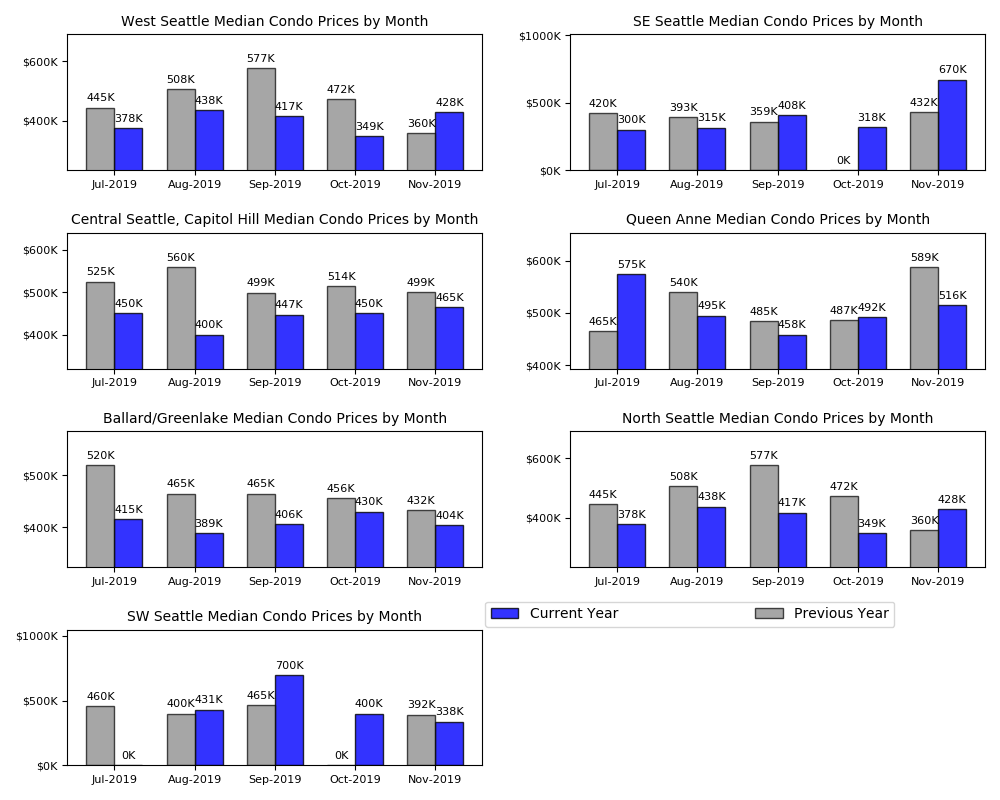
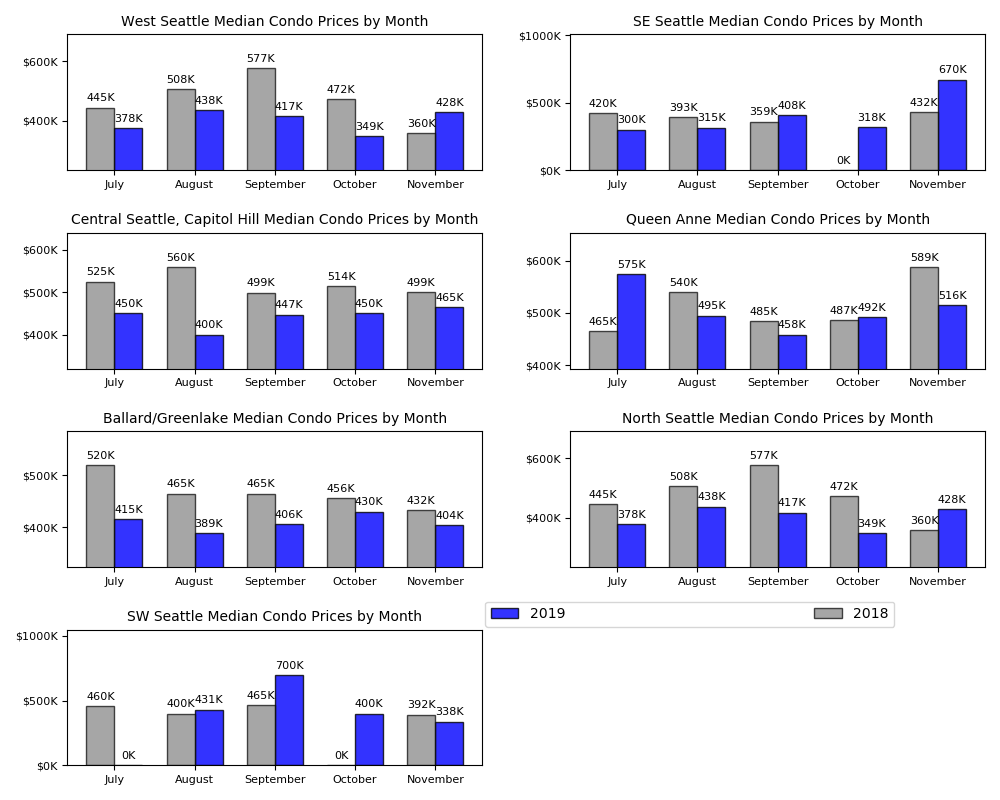
formatting of graphs

diff --git a/viz/stackedGraph.py b/viz/stackedGraph.py
@@ -66,7 +66,7 @@ table_list = [['res', 'Residential', 'SFH'], ['res_condo', 'Mixed', 'SFH/Condo']
 for table in table_list:
     #     #query for database
     viz_query= """
-    select  month_year, dr.region_name, median_price_curr_year, median_price_prev_year
+    select  monthname(load_date), dr.region_name, median_price_curr_year, median_price_prev_year
     from {0}_home_data_summary rs
     inner join dim_regions dr on rs.region_id = dr.region_id
     where 1=1
@@ -79,7 +79,7 @@ for table in table_list:
         os.makedirs(viz_dir)
         print("Directory {} Created".format(viz_dir))
     else:    
-        print("Directory {} Created".format(viz_dir))
+        print("Directory {} already Created".format(viz_dir))
 
     #change the tuple return to 
     df = pd.DataFrame( [[ij for ij in i] for i in rows] )
@@ -157,7 +157,7 @@ for table in table_list:
                             color="blue",
                             edgecolor="black", 
                             alpha=.8,
-                            label='Current Year')
+                            label='2019')
 
     rects1b = ax1.bar(x - width/2, 
                             w_seattle_last_year_median, 
@@ -165,7 +165,7 @@ for table in table_list:
                             color="gray",
                             edgecolor="black", 
                             alpha=.7,
-                            label='Previous Year')
+                            label='2018')
     ax1.set_xticks(x)
     ax1.xaxis.set_ticklabels(labels,size=8)
     ax1.yaxis.set_ticklabels(labels,size=8)
@@ -189,7 +189,7 @@ for table in table_list:
                             color="blue",
                             edgecolor="black", 
                             alpha=.8,
-                            label='Current Year')
+                            label='2019')
 
     rects2b = ax2.bar(x - width/2, 
                             se_seattle_last_year_median, 
@@ -197,7 +197,7 @@ for table in table_list:
                             color="gray",
                             edgecolor="black", 
                             alpha=.7,
-                            label='Previous Year')
+                            label='2018')
     ax2.set_xticks(x)
     ax2.xaxis.set_ticklabels(labels,size=8)
     ax2.yaxis.set_ticklabels(labels,size=8)
@@ -221,7 +221,7 @@ for table in table_list:
                             color="blue",
                             edgecolor="black", 
                             alpha=.8,
-                            label='Current Year')
+                            label='2019')
 
     rects3b = ax3.bar(x - width/2, 
                             ch_seattle_last_year_median, 
@@ -229,7 +229,7 @@ for table in table_list:
                             color="gray",
                             edgecolor="black", 
                             alpha=.7,
-                            label='Previous Year')
+                            label='2018')
     ax3.set_xticks(x)
     ax3.xaxis.set_ticklabels(labels,size=8)
     ax3.yaxis.set_ticklabels(labels,size=8)
@@ -254,7 +254,7 @@ for table in table_list:
                             color="blue",
                             edgecolor="black", 
                             alpha=.8,
-                            label='Current Year')
+                            label='2019')
 
     rects4b = ax4.bar(x - width/2, 
                             qa_seattle_last_year_median, 
@@ -262,7 +262,7 @@ for table in table_list:
                             color="gray",
                             edgecolor="black", 
                             alpha=.7,
-                            label='Previous Year')
+                            label='2018')
     ax4.set_xticks(x)
     ax4.xaxis.set_ticklabels(labels,size=8)
     ax4.yaxis.set_ticklabels(labels,size=8)
@@ -285,7 +285,7 @@ for table in table_list:
                             color="blue",
                             edgecolor="black", 
                             alpha=.8,
-                            label='Current Year')
+                            label='2019')
 
     rects5b = ax5.bar(x - width/2, 
                             bg_seattle_last_year_median, 
@@ -293,7 +293,7 @@ for table in table_list:
                             color="gray",
                             edgecolor="black", 
                             alpha=.7,
-                            label='Previous Year')
+                            label='2018')
     ax5.set_xticks(x)
     ax5.xaxis.set_ticklabels(labels,size=8)
     ax5.yaxis.set_ticklabels(labels,size=8)
@@ -316,7 +316,7 @@ for table in table_list:
                             color="blue",
                             edgecolor="black", 
                             alpha=.8,
-                            label='Current Year')
+                            label='2019')
 
     rects6b = ax6.bar(x - width/2, 
                             n_seattle_last_year_median, 
@@ -324,7 +324,7 @@ for table in table_list:
                             color="gray",
                             edgecolor="black", 
                             alpha=.7,
-                            label='Previous Year')
+                            label='2018')
     ax6.set_xticks(x)
     ax6.xaxis.set_ticklabels(labels,size=8)
     ax6.yaxis.set_ticklabels(labels,size=8)
@@ -347,7 +347,7 @@ for table in table_list:
                             color="blue",
                             edgecolor="black", 
                             alpha=.8,
-                            label='Current Year')
+                            label='2019')
 
     rects7b = ax7.bar(x - width/2, 
                             sw_seattle_last_year_median, 
@@ -355,7 +355,7 @@ for table in table_list:
                             color="gray",
                             edgecolor="black", 
                             alpha=.7,
-                            label='Previous Year')
+                            label='2018')
     ax7.set_xticks(x)
     ax7.xaxis.set_ticklabels(labels,size=8)
     ax7.yaxis.set_ticklabels(labels,size=8)

diff --git a/viz/linechart.py b/viz/linechart.py
@@ -1,0 +1,51 @@
+import mysql.connector
+import pandas as pd
+import numpy as np
+import matplotlib.pyplot as plt
+from auth import *
+
+#Auth for DB connection
+db = mysql.connector.connect(
+  host=host,
+  user=user,
+  passwd=grantPass,
+  db="real_estate"
+)
+
+print('Connected to database \n')
+cur = db.cursor()
+
+viz_query= """
+    select 
+month_year
+,dm.region_name
+,rh.closed_curr_year
+,rh.closed_prev_year 
+from res_home_data_summary rh 
+inner join dim_regions dm on rh.region_id = dm.region_id""".format()
+
+cur.execute(viz_query)
+
+rows = cur.fetchall()
+# print('ROWS:', rows)
+df = pd.DataFrame( [[ij for ij in i] for i in rows] )
+df.rename(columns={0: 'Date', 1: 'Region', 2: 'MedianPrice', 3: 'LastYearMedianPrice'}, inplace=True)
+
+labels = df['Date'].unique().tolist()
+
+print(labels)
+x = np.arange(len(labels))  # the label locations
+width= 0.35
+names = ['group_a', 'group_b', 'group_c']
+values = [1, 10, 100]
+fig = plt.figure(figsize=(9,3))
+plt.subplot(131)
+plt.bar(names, values)
+plt.subplot(131)
+plt.scatter(names, values, color="gray")
+plt.subplot(131)
+plt.plot(names, values, color="green")
+plt.suptitle('Categorical Plotting')
+plt.show()
+
+plt.show()
